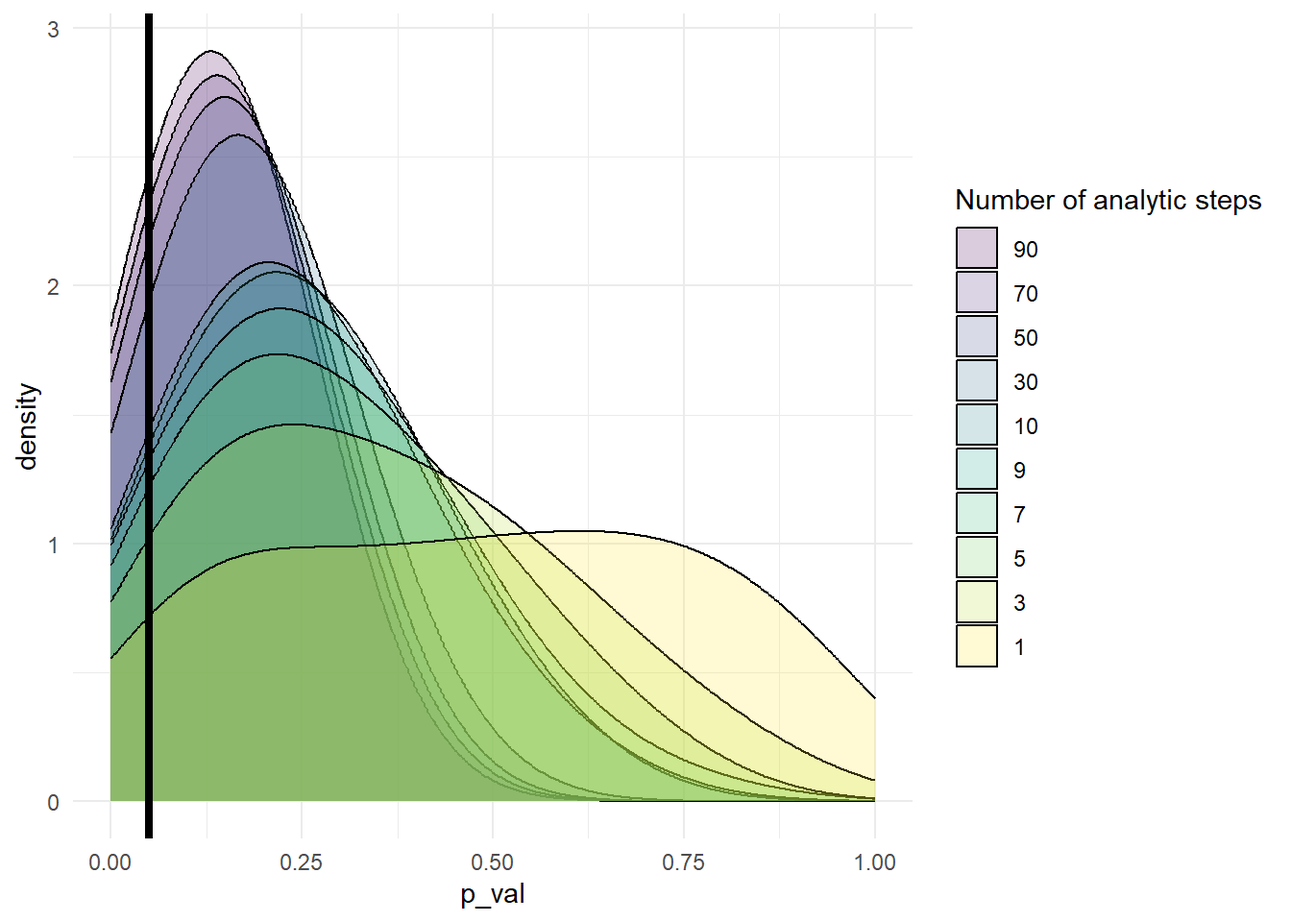
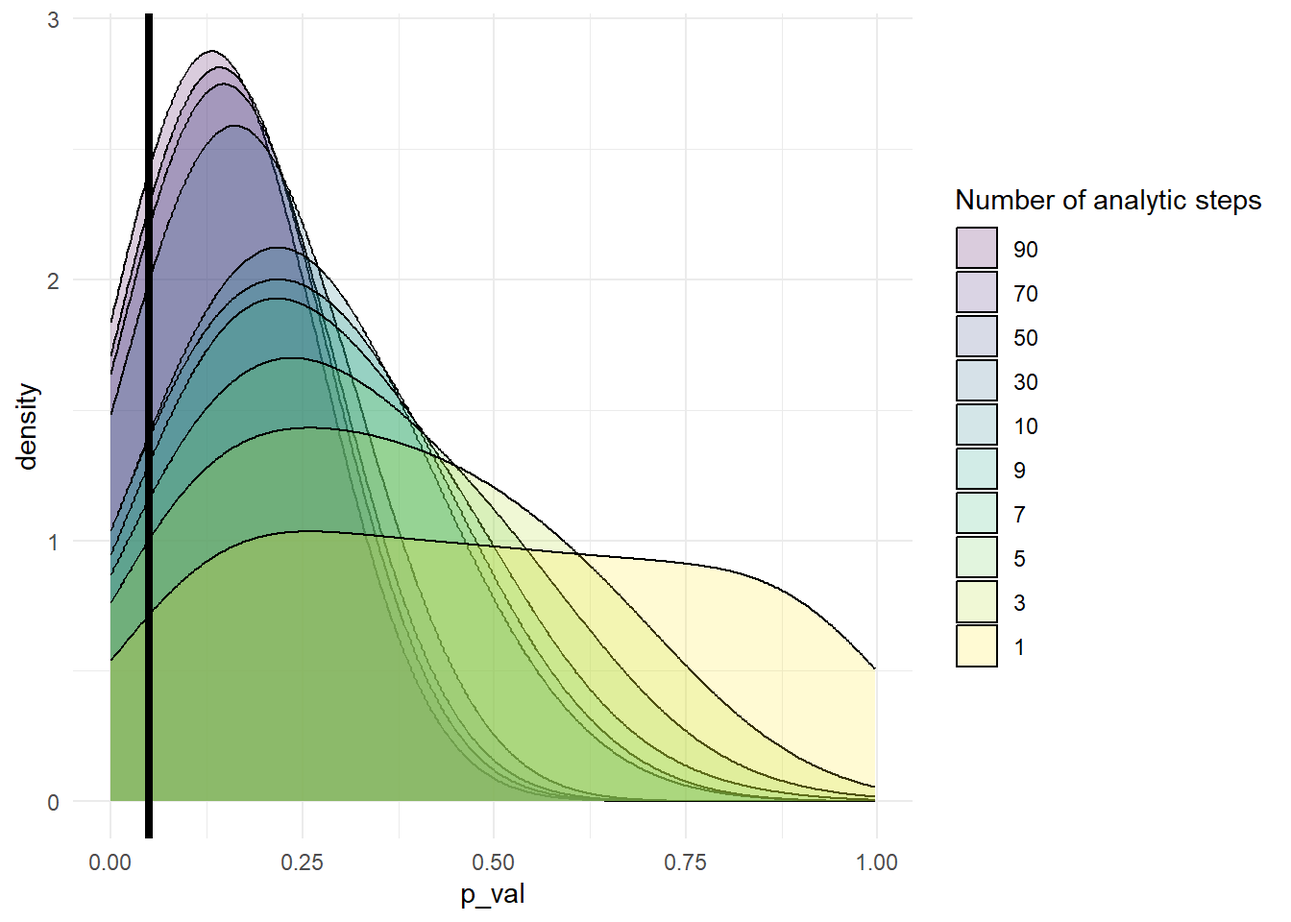
phack

diff --git a/docs/_site/p_hacking_2025.html b/docs/_site/p_hacking_2025.html
@@ -65,6 +65,7 @@ pre > code.sourceCode > span > a:first-child::before { text-decoration: underlin
 <script src="site_libs/quarto-search/fuse.min.js"></script>
 <script src="site_libs/quarto-search/quarto-search.js"></script>
 <meta name="quarto:offset" content="./">
+<link href="./Multiple_regression_2025.html" rel="prev">
 <script src="site_libs/quarto-html/quarto.js" type="module"></script>
 <script src="site_libs/quarto-html/tabsets/tabsets.js" type="module"></script>
 <script src="site_libs/quarto-html/popper.min.js"></script>
@@ -316,9 +317,7 @@ window.Quarto = {
       <button type="button" class="quarto-btn-toggle btn" data-bs-toggle="collapse" role="button" data-bs-target=".quarto-sidebar-collapse-item" aria-controls="quarto-sidebar" aria-expanded="false" aria-label="Toggle sidebar navigation" onclick="if (window.quartoToggleHeadroom) { window.quartoToggleHeadroom(); }">
         <i class="bi bi-layout-text-sidebar-reverse"></i>
       </button>
-        <nav class="quarto-page-breadcrumbs" aria-label="breadcrumb"><ol class="breadcrumb"><li class="breadcrumb-item">
-      Data Science and Statistics in R for Fellowship
-      </li></ol></nav>
+        <nav class="quarto-page-breadcrumbs" aria-label="breadcrumb"><ol class="breadcrumb"><li class="breadcrumb-item"><a href="./Variance_2025.html">R for Statistics 2026</a></li><li class="breadcrumb-item"><a href="./p_hacking_2025.html">Bioscientist’s Guide to P-hacking (and to never p-hacking again)</a></li></ol></nav>
         <a class="flex-grow-1" role="navigation" data-bs-toggle="collapse" data-bs-target=".quarto-sidebar-collapse-item" aria-controls="quarto-sidebar" aria-expanded="false" aria-label="Toggle sidebar navigation" onclick="if (window.quartoToggleHeadroom) { window.quartoToggleHeadroom(); }">      
         </a>
       <button type="button" class="btn quarto-search-button" aria-label="Search" onclick="window.quartoOpenSearch();">
@@ -498,6 +497,12 @@ window.Quarto = {
  <span class="menu-text">Session 21: Multiple Regression</span></a>
   </div>
 </li>
+          <li class="sidebar-item">
+  <div class="sidebar-item-container"> 
+  <a href="./p_hacking_2025.html" class="sidebar-item-text sidebar-link active">
+ <span class="menu-text">Bioscientist’s Guide to P-hacking (and to never p-hacking again)</span></a>
+  </div>
+</li>
       </ul>
   </li>
     </ul>
@@ -510,7 +515,7 @@ window.Quarto = {
 <main class="content" id="quarto-document-content">
 
 
-<header id="title-block-header" class="quarto-title-block default">
+<header id="title-block-header" class="quarto-title-block default"><nav class="quarto-page-breadcrumbs quarto-title-breadcrumbs d-none d-lg-block" aria-label="breadcrumb"><ol class="breadcrumb"><li class="breadcrumb-item"><a href="./Variance_2025.html">R for Statistics 2026</a></li><li class="breadcrumb-item"><a href="./p_hacking_2025.html">Bioscientist’s Guide to P-hacking (and to never p-hacking again)</a></li></ol></nav>
 <div class="quarto-title">
 <h1 class="title">Bioscientist’s Guide to P-hacking (and to never p-hacking again)</h1>
 </div>
@@ -549,7 +554,7 @@ window.Quarto = {
 <ul>
 <li><p>What constitutes an outlier? When might outlier removal be justified and how might it be exploited?</p></li>
 <li><p>Let’s take a look at two common outlier removal approaches: interquartile range (IQR) fencing and thresholding based on the z-score.</p></li>
-<li><p>In IQR fencing, data are removed if they are are less than Q1 - 1.5 * IQR or Q3 + 1.5 * IQR. Complete the function below to perform IQR fencing across a set of groups</p></li>
+<li><p>In IQR fencing, data are removed if they are are less than Q1 - 1.5 * IQR or greater than Q3 + 1.5 * IQR. Complete the function below to perform IQR fencing across a set of groups</p></li>
 </ul>
 <div class="cell">
 <div class="sourceCode cell-code" id="cb1"><pre class="sourceCode r code-with-copy"><code class="sourceCode r"><span id="cb1-1"><a href="#cb1-1" aria-hidden="true" tabindex="-1"></a>iqr_fence <span class="ot">&lt;-</span> <span class="cf">function</span>(data, variable, value) {</span>
@@ -614,8 +619,17 @@ window.Quarto = {
 </div>
 </div>
 </div>
-<p><br> - Visualize the data per group. Consider two alternative approaches to this visualization. In the first, try to emphasize the between-group differences in means to persuade your reader. You could, for example, take your pick of a simple bar chart or line graph. In the second, we’d like you to visualize as much of the underlying data as possible (e.g.&nbsp;violin and dot plot). - Let’s now search for significance! Start by running an ANOVA using any approach we’ve discussed in previous sessions.<br>
-- Try going ahead anyway with multiple comparisons, using the <code>rstatix::pairwise_t_test</code> to test all pairwise differences using Bonferroni. Change the correction method from Bonferroni to FDR just to make sure we’re not being too conservative (might as well check right?). - What if outliers are obscuring any true differences? Try a few different cutoffs and perform ANOVAs for each cutoff. Record your F-statistics and p-values for each test. - Once you found a cutoff yielding a significant result, try running a post hoc test and prepare a table showing the Cohen’s d/t-statistic for each pairwise difference of means and its p-value - Let’s turn to the IQR fence. Try the same analyses, beginning with an omnibus test and then multiple comparisons. - Compare the outcome when you use Bonferroni vs.&nbsp;FDR correction. When might choosing among different multiple testing approaches constitute a form of p-hacking? - Once you have your candidate method, report your findings as if you were writing a results section or abstract, providing a brief explanation of the methods you used. There’s no need to list all the combinations you tried, of course, they were just the groundwork before landing on the <em>correct</em> method.</p>
+<p><br></p>
+<ul>
+<li><p>Visualize the data per group. Consider two alternative approaches to this visualization. In the first, try to emphasize the between-group differences in means to persuade your reader. You could, for example, take your pick of a simple bar chart or line graph. In the second, we’d like you to visualize as much of the underlying data as possible (e.g.&nbsp;violin and dot plot).</p></li>
+<li><p>Let’s now search for significance! Start by running an ANOVA using any approach we’ve discussed in previous sessions.</p></li>
+<li><p>Try going ahead anyway with multiple comparisons, using the <code>rstatix::pairwise_t_test</code> to test all pairwise differences using Bonferroni. Change the correction method from Bonferroni to FDR just to make sure we’re not being too conservative (might as well check right?).</p></li>
+<li><p>What if outliers are obscuring any true differences? Try a few different cutoffs and perform ANOVAs for each cutoff. Record your F-statistics and p-values for each test.</p></li>
+<li><p>Once you found a cutoff yielding a significant result, try running a post hoc test and prepare a table showing the Cohen’s d/t-statistic for each pairwise difference of means and its p-value</p></li>
+<li><p>Let’s turn to the IQR fence. Try the same analyses, beginning with an omnibus test and then multiple comparisons.</p></li>
+<li><p>Compare the outcome when you use Bonferroni vs.&nbsp;FDR correction. When might choosing among different multiple testing approaches constitute a form of p-hacking?</p></li>
+<li><p>Once you have your candidate method, report your findings as if you were writing a results section or abstract, providing a brief explanation of the methods you used. There’s no need to list all the combinations you tried, of course, they were just the groundwork before landing on the <em>correct</em> method.</p></li>
+</ul>
 <ol start="3" type="1">
 <li>Let’s take a look at discretization. We touched on the issues of discretization during the previous project work session. Using simulation, we found that binning the predictor variable from a continuous one to 6 and then 3 bins before binning both outcome and predictor successively reduced our power of finding a true effect. But for the p-hacker, discretization provides yet another lever to test multiple different analytic combinations and exploit sampling error to try extracting something purportedly significant. The number of bins, placement of intervals and equality of bin sizes are all features that can be manipulated and the winning combination justified <em>post hoc</em> in the results. We provide you with the next function in the p-hacker’s toolbox:</li>
 </ol>
@@ -637,6 +651,7 @@ window.Quarto = {
 <ul>
 <li>Download the following dataset, containing predictor (<code>x</code>) and outcome (<code>y</code>) variables:</li>
 </ul>
+<p><br></p>
 <div class="text-center">
 <div class="cell">
 <div class="cell-output-display">
@@ -669,6 +684,7 @@ window.Quarto = {
 </div>
 </div>
 </div>
+<p><br></p>
 <ul>
 <li>Since both are continuous, why don’t we start by fitting a simple linear regression using techniques we’ve already covered in session 20. Plot the data and overlay the line and its standard error using <code>geom_ribbon</code>. What values did you see for the intercept and gradient? What is the <span class="math inline">\(R^2\)</span> and its p-value?
 <ul>
@@ -724,6 +740,7 @@ window.Quarto = {
 </div>
 </div>
 <p>Now it’s your opportunity to indulge in either some significantly reputable or refutably significant data analysis. Below we have provided two datasets, where you will analyze them as either a p-hacker, a data analyst with more statistical integrity, or one of each. 5. Download the first dataset below:</p>
+<p><br></p>
 <div class="text-center">
 <div class="cell">
 <div class="cell-output-display">
@@ -774,24 +791,24 @@ window.Quarto = {
 <p><br></p>
 <div class="text-center">
 <div class="cell">
-<div class="sourceCode cell-code hidden" id="cb5" data-startfrom="317" data-source-offset="0"><pre class="sourceCode js code-with-copy"><code class="sourceCode javascript" style="counter-reset: source-line 316;"><span id="cb5-317"><a href="#cb5-317" aria-hidden="true" tabindex="-1"></a>viewof run1 <span class="op">=</span> {</span>
-<span id="cb5-318"><a href="#cb5-318" aria-hidden="true" tabindex="-1"></a>  <span class="kw">const</span> button <span class="op">=</span> <span class="fu">html</span><span class="vs">`&lt;button style="background-color: white; color: black;"&gt;Find role&lt;/button&gt;`</span><span class="op">;</span></span>
-<span id="cb5-319"><a href="#cb5-319" aria-hidden="true" tabindex="-1"></a>  <span class="kw">let</span> clickCount <span class="op">=</span> <span class="dv">0</span><span class="op">;</span></span>
-<span id="cb5-320"><a href="#cb5-320" aria-hidden="true" tabindex="-1"></a>  </span>
-<span id="cb5-321"><a href="#cb5-321" aria-hidden="true" tabindex="-1"></a>  button<span class="op">.</span><span class="at">onclick</span> <span class="op">=</span> () <span class="kw">=&gt;</span> {</span>
-<span id="cb5-322"><a href="#cb5-322" aria-hidden="true" tabindex="-1"></a>    clickCount<span class="op">++;</span></span>
-<span id="cb5-323"><a href="#cb5-323" aria-hidden="true" tabindex="-1"></a>    button<span class="op">.</span><span class="at">value</span> <span class="op">=</span> clickCount<span class="op">;</span></span>
-<span id="cb5-324"><a href="#cb5-324" aria-hidden="true" tabindex="-1"></a>    </span>
-<span id="cb5-325"><a href="#cb5-325" aria-hidden="true" tabindex="-1"></a>    <span class="pp">setTimeout</span>(() <span class="kw">=&gt;</span> {</span>
-<span id="cb5-326"><a href="#cb5-326" aria-hidden="true" tabindex="-1"></a>      button<span class="op">.</span><span class="at">style</span><span class="op">.</span><span class="at">backgroundColor</span> <span class="op">=</span> <span class="st">'red'</span><span class="op">;</span></span>
-<span id="cb5-327"><a href="#cb5-327" aria-hidden="true" tabindex="-1"></a>    }<span class="op">,</span> <span class="dv">0</span>)<span class="op">;</span></span>
-<span id="cb5-328"><a href="#cb5-328" aria-hidden="true" tabindex="-1"></a></span>
-<span id="cb5-329"><a href="#cb5-329" aria-hidden="true" tabindex="-1"></a>    button<span class="op">.</span><span class="fu">dispatchEvent</span>(<span class="kw">new</span> <span class="bu">CustomEvent</span>(<span class="st">'input'</span>))<span class="op">;</span></span>
-<span id="cb5-330"><a href="#cb5-330" aria-hidden="true" tabindex="-1"></a>  }<span class="op">;</span></span>
-<span id="cb5-331"><a href="#cb5-331" aria-hidden="true" tabindex="-1"></a></span>
-<span id="cb5-332"><a href="#cb5-332" aria-hidden="true" tabindex="-1"></a>  button<span class="op">.</span><span class="at">value</span> <span class="op">=</span> clickCount<span class="op">;</span> </span>
-<span id="cb5-333"><a href="#cb5-333" aria-hidden="true" tabindex="-1"></a>  <span class="cf">return</span> button<span class="op">;</span></span>
-<span id="cb5-334"><a href="#cb5-334" aria-hidden="true" tabindex="-1"></a>}</span></code><button title="Copy to Clipboard" class="code-copy-button"><i class="bi"></i></button></pre></div>
+<div class="sourceCode cell-code hidden" id="cb5" data-startfrom="332" data-source-offset="0"><pre class="sourceCode js code-with-copy"><code class="sourceCode javascript" style="counter-reset: source-line 331;"><span id="cb5-332"><a href="#cb5-332" aria-hidden="true" tabindex="-1"></a>viewof run1 <span class="op">=</span> {</span>
+<span id="cb5-333"><a href="#cb5-333" aria-hidden="true" tabindex="-1"></a>  <span class="kw">const</span> button <span class="op">=</span> <span class="fu">html</span><span class="vs">`&lt;button style="background-color: white; color: black;"&gt;Find role&lt;/button&gt;`</span><span class="op">;</span></span>
+<span id="cb5-334"><a href="#cb5-334" aria-hidden="true" tabindex="-1"></a>  <span class="kw">let</span> clickCount <span class="op">=</span> <span class="dv">0</span><span class="op">;</span></span>
+<span id="cb5-335"><a href="#cb5-335" aria-hidden="true" tabindex="-1"></a>  </span>
+<span id="cb5-336"><a href="#cb5-336" aria-hidden="true" tabindex="-1"></a>  button<span class="op">.</span><span class="at">onclick</span> <span class="op">=</span> () <span class="kw">=&gt;</span> {</span>
+<span id="cb5-337"><a href="#cb5-337" aria-hidden="true" tabindex="-1"></a>    clickCount<span class="op">++;</span></span>
+<span id="cb5-338"><a href="#cb5-338" aria-hidden="true" tabindex="-1"></a>    button<span class="op">.</span><span class="at">value</span> <span class="op">=</span> clickCount<span class="op">;</span></span>
+<span id="cb5-339"><a href="#cb5-339" aria-hidden="true" tabindex="-1"></a>    </span>
+<span id="cb5-340"><a href="#cb5-340" aria-hidden="true" tabindex="-1"></a>    <span class="pp">setTimeout</span>(() <span class="kw">=&gt;</span> {</span>
+<span id="cb5-341"><a href="#cb5-341" aria-hidden="true" tabindex="-1"></a>      button<span class="op">.</span><span class="at">style</span><span class="op">.</span><span class="at">backgroundColor</span> <span class="op">=</span> <span class="st">'red'</span><span class="op">;</span></span>
+<span id="cb5-342"><a href="#cb5-342" aria-hidden="true" tabindex="-1"></a>    }<span class="op">,</span> <span class="dv">0</span>)<span class="op">;</span></span>
+<span id="cb5-343"><a href="#cb5-343" aria-hidden="true" tabindex="-1"></a></span>
+<span id="cb5-344"><a href="#cb5-344" aria-hidden="true" tabindex="-1"></a>    button<span class="op">.</span><span class="fu">dispatchEvent</span>(<span class="kw">new</span> <span class="bu">CustomEvent</span>(<span class="st">'input'</span>))<span class="op">;</span></span>
+<span id="cb5-345"><a href="#cb5-345" aria-hidden="true" tabindex="-1"></a>  }<span class="op">;</span></span>
+<span id="cb5-346"><a href="#cb5-346" aria-hidden="true" tabindex="-1"></a></span>
+<span id="cb5-347"><a href="#cb5-347" aria-hidden="true" tabindex="-1"></a>  button<span class="op">.</span><span class="at">value</span> <span class="op">=</span> clickCount<span class="op">;</span> </span>
+<span id="cb5-348"><a href="#cb5-348" aria-hidden="true" tabindex="-1"></a>  <span class="cf">return</span> button<span class="op">;</span></span>
+<span id="cb5-349"><a href="#cb5-349" aria-hidden="true" tabindex="-1"></a>}</span></code><button title="Copy to Clipboard" class="code-copy-button"><i class="bi"></i></button></pre></div>
 <div class="cell-output cell-output-display">
 <div id="ojs-cell-1" data-nodetype="declaration">
 
@@ -815,7 +832,7 @@ eyJhdHRyIjp7ImVjaG8iOmZhbHNlLCJlZGl0IjpmYWxzZSwiZXZhbCI6dHJ1ZSwiaW5wdXQiOlsicnVu
 <li>Transform and/or discretize your variables until the desired result is achieved</li>
 <li>Eliminate outliers using different techniques or thresholds</li>
 <li>Test any and all combination of variables: include or withhold different dependent variables, test multiple outcome variables and add/remove covariates</li>
-<li>Try subgroup analyses, including the presence or absence of interaction terms</li>
+<li>Try subsetting your data for separate subgroup analyses (e.g., analyzing only one Site or one Sex), as well as testing models with and without explicit interaction terms.</li>
 <li>If running an ANOVA, debate different post hoc correction methods and rationalize which one to use based on your findings</li>
 <li>Decide on what your initial hypotheses are after knowing the data. Consider selectively reporting the variables that support your narrative rather than the trivia of reporting everything you tried</li>
 <li>Prepare persuasive figures to illustrate your results, with a focus on showcasing your significant findings rather than any effect sizes</li>
@@ -846,6 +863,7 @@ Presenting your findings
 <ol start="6" type="1">
 <li>In this neuroimaging study, a preliminary 60 participants were collected. Here are their data:</li>
 </ol>
+<p><br></p>
 <div class="text-center">
 <div class="cell">
 <div class="cell-output-display">
@@ -878,6 +896,7 @@ Presenting your findings
 </div>
 </div>
 </div>
+<p><br></p>
 <ul>
 <li>Since then, you collected 30 more:</li>
 </ul>
@@ -923,24 +942,24 @@ Presenting your findings
 <p><br></p>
 <div class="text-center">
 <div class="cell">
-<div class="sourceCode cell-code hidden" id="cb6" data-startfrom="441" data-source-offset="0"><pre class="sourceCode js code-with-copy"><code class="sourceCode javascript" style="counter-reset: source-line 440;"><span id="cb6-441"><a href="#cb6-441" aria-hidden="true" tabindex="-1"></a>viewof run2 <span class="op">=</span> {</span>
-<span id="cb6-442"><a href="#cb6-442" aria-hidden="true" tabindex="-1"></a>  <span class="kw">const</span> button <span class="op">=</span> <span class="fu">html</span><span class="vs">`&lt;button style="background-color: white; color: black;"&gt;Find role&lt;/button&gt;`</span><span class="op">;</span></span>
-<span id="cb6-443"><a href="#cb6-443" aria-hidden="true" tabindex="-1"></a>  <span class="kw">let</span> clickCount <span class="op">=</span> <span class="dv">0</span><span class="op">;</span></span>
-<span id="cb6-444"><a href="#cb6-444" aria-hidden="true" tabindex="-1"></a>  </span>
-<span id="cb6-445"><a href="#cb6-445" aria-hidden="true" tabindex="-1"></a>  button<span class="op">.</span><span class="at">onclick</span> <span class="op">=</span> () <span class="kw">=&gt;</span> {</span>
-<span id="cb6-446"><a href="#cb6-446" aria-hidden="true" tabindex="-1"></a>    clickCount<span class="op">++;</span></span>
-<span id="cb6-447"><a href="#cb6-447" aria-hidden="true" tabindex="-1"></a>    button<span class="op">.</span><span class="at">value</span> <span class="op">=</span> clickCount<span class="op">;</span></span>
-<span id="cb6-448"><a href="#cb6-448" aria-hidden="true" tabindex="-1"></a>    </span>
-<span id="cb6-449"><a href="#cb6-449" aria-hidden="true" tabindex="-1"></a>    <span class="pp">setTimeout</span>(() <span class="kw">=&gt;</span> {</span>
-<span id="cb6-450"><a href="#cb6-450" aria-hidden="true" tabindex="-1"></a>      button<span class="op">.</span><span class="at">style</span><span class="op">.</span><span class="at">backgroundColor</span> <span class="op">=</span> <span class="st">'orange'</span><span class="op">;</span></span>
-<span id="cb6-451"><a href="#cb6-451" aria-hidden="true" tabindex="-1"></a>    }<span class="op">,</span> <span class="dv">0</span>)<span class="op">;</span></span>
-<span id="cb6-452"><a href="#cb6-452" aria-hidden="true" tabindex="-1"></a></span>
-<span id="cb6-453"><a href="#cb6-453" aria-hidden="true" tabindex="-1"></a>    button<span class="op">.</span><span class="fu">dispatchEvent</span>(<span class="kw">new</span> <span class="bu">CustomEvent</span>(<span class="st">'input'</span>))<span class="op">;</span></span>
-<span id="cb6-454"><a href="#cb6-454" aria-hidden="true" tabindex="-1"></a>  }<span class="op">;</span></span>
-<span id="cb6-455"><a href="#cb6-455" aria-hidden="true" tabindex="-1"></a></span>
-<span id="cb6-456"><a href="#cb6-456" aria-hidden="true" tabindex="-1"></a>  button<span class="op">.</span><span class="at">value</span> <span class="op">=</span> clickCount<span class="op">;</span> </span>
-<span id="cb6-457"><a href="#cb6-457" aria-hidden="true" tabindex="-1"></a>  <span class="cf">return</span> button<span class="op">;</span></span>
-<span id="cb6-458"><a href="#cb6-458" aria-hidden="true" tabindex="-1"></a>}</span></code><button title="Copy to Clipboard" class="code-copy-button"><i class="bi"></i></button></pre></div>
+<div class="sourceCode cell-code hidden" id="cb6" data-startfrom="460" data-source-offset="0"><pre class="sourceCode js code-with-copy"><code class="sourceCode javascript" style="counter-reset: source-line 459;"><span id="cb6-460"><a href="#cb6-460" aria-hidden="true" tabindex="-1"></a>viewof run2 <span class="op">=</span> {</span>
+<span id="cb6-461"><a href="#cb6-461" aria-hidden="true" tabindex="-1"></a>  <span class="kw">const</span> button <span class="op">=</span> <span class="fu">html</span><span class="vs">`&lt;button style="background-color: white; color: black;"&gt;Find role&lt;/button&gt;`</span><span class="op">;</span></span>
+<span id="cb6-462"><a href="#cb6-462" aria-hidden="true" tabindex="-1"></a>  <span class="kw">let</span> clickCount <span class="op">=</span> <span class="dv">0</span><span class="op">;</span></span>
+<span id="cb6-463"><a href="#cb6-463" aria-hidden="true" tabindex="-1"></a>  </span>
+<span id="cb6-464"><a href="#cb6-464" aria-hidden="true" tabindex="-1"></a>  button<span class="op">.</span><span class="at">onclick</span> <span class="op">=</span> () <span class="kw">=&gt;</span> {</span>
+<span id="cb6-465"><a href="#cb6-465" aria-hidden="true" tabindex="-1"></a>    clickCount<span class="op">++;</span></span>
+<span id="cb6-466"><a href="#cb6-466" aria-hidden="true" tabindex="-1"></a>    button<span class="op">.</span><span class="at">value</span> <span class="op">=</span> clickCount<span class="op">;</span></span>
+<span id="cb6-467"><a href="#cb6-467" aria-hidden="true" tabindex="-1"></a>    </span>
+<span id="cb6-468"><a href="#cb6-468" aria-hidden="true" tabindex="-1"></a>    <span class="pp">setTimeout</span>(() <span class="kw">=&gt;</span> {</span>
+<span id="cb6-469"><a href="#cb6-469" aria-hidden="true" tabindex="-1"></a>      button<span class="op">.</span><span class="at">style</span><span class="op">.</span><span class="at">backgroundColor</span> <span class="op">=</span> <span class="st">'orange'</span><span class="op">;</span></span>
+<span id="cb6-470"><a href="#cb6-470" aria-hidden="true" tabindex="-1"></a>    }<span class="op">,</span> <span class="dv">0</span>)<span class="op">;</span></span>
+<span id="cb6-471"><a href="#cb6-471" aria-hidden="true" tabindex="-1"></a></span>
+<span id="cb6-472"><a href="#cb6-472" aria-hidden="true" tabindex="-1"></a>    button<span class="op">.</span><span class="fu">dispatchEvent</span>(<span class="kw">new</span> <span class="bu">CustomEvent</span>(<span class="st">'input'</span>))<span class="op">;</span></span>
+<span id="cb6-473"><a href="#cb6-473" aria-hidden="true" tabindex="-1"></a>  }<span class="op">;</span></span>
+<span id="cb6-474"><a href="#cb6-474" aria-hidden="true" tabindex="-1"></a></span>
+<span id="cb6-475"><a href="#cb6-475" aria-hidden="true" tabindex="-1"></a>  button<span class="op">.</span><span class="at">value</span> <span class="op">=</span> clickCount<span class="op">;</span> </span>
+<span id="cb6-476"><a href="#cb6-476" aria-hidden="true" tabindex="-1"></a>  <span class="cf">return</span> button<span class="op">;</span></span>
+<span id="cb6-477"><a href="#cb6-477" aria-hidden="true" tabindex="-1"></a>}</span></code><button title="Copy to Clipboard" class="code-copy-button"><i class="bi"></i></button></pre></div>
 <div class="cell-output cell-output-display">
 <div id="ojs-cell-2" data-nodetype="declaration">
 
@@ -960,16 +979,17 @@ eyJhdHRyIjp7ImVjaG8iOmZhbHNlLCJlZGl0IjpmYWxzZSwiZXZhbCI6dHJ1ZSwiaW5wdXQiOlsicnVu
 </div>
 <p><br></p>
 <ul>
-<li>While your initial power analyses suggested an n of 90, how reliable are power analyses anyway? If you’re p-hacking, why not try rerunning your analyses on batches of data: 60-65-70, or even 1 at a time?</li>
-<li>Just like Q5, please prepare your findings in a Quarto document and be ready to present your analyses to the rest of the group.</li>
+<li><p>While your initial power analyses suggested an n of 90, how reliable are power analyses anyway?. Now that you have the extra 30 participants, you could combine the datasets. If you are a p-hacker, simulate ‘peeking’ at your data: rerun your analysis at different samples, i.e.&nbsp;<span class="math inline">\(n = 60\)</span>, <span class="math inline">\(n = 65\)</span>, <span class="math inline">\(n = 70\)</span>, and so on, adding a few rows at a time until your <span class="math inline">\(p\)</span>-value of interest crosses the threshold, then stop! If you’re p-hacking,</p></li>
+<li><p>Just like Q5, please prepare your findings in a Quarto document and be ready to present your analyses to the rest of the group.</p></li>
 </ul>
 <ol start="7" type="1">
 <li>For both datasets, answer the following:</li>
 </ol>
 <ul>
-<li>Which analytic choices most changed your conclusions?</li>
-<li>How many analyses did you attempt before choosing the ones you reported?</li>
-<li>As the p-hacker, did you find yourself rationalizing the results you encountered? Why might these rationalizations creep into data analysis and how do you prevent them?</li>
+<li><p>Which analytic choices most changed your conclusions?</p></li>
+<li><p><em>If you were the p-hacker</em>, how many unique combinations did you try before choosing the ones you reported?</p></li>
+<li><p>Did you find yourself rationalizing the results you encountered? Why might these rationalizations creep into data analysis and how would you prevent them?</p></li>
+<li><p><em>If you were the honest analyst</em>, did you feel a pressure to modify your analyses when your pre-registered plan yielded results you weren’t expecting?</p></li>
 </ul>
 <ol start="8" type="1">
 <li>Which p-hacking strategies did the authors find to inflate the false positive rate the most?</li>
@@ -1426,6 +1446,15 @@ window._ojs.runtime.interpretFromScriptTags();
     }
   });
   </script>
+<nav class="page-navigation">
+  <div class="nav-page nav-page-previous">
+      <a href="./Multiple_regression_2025.html" class="pagination-link" aria-label="Session 21: Multiple Regression">
+        <i class="bi bi-arrow-left-short"></i> <span class="nav-page-text">Session 21: Multiple Regression</span>
+      </a>          
+  </div>
+  <div class="nav-page nav-page-next">
+  </div>
+</nav>
 </div> <!-- /content -->
 
 
